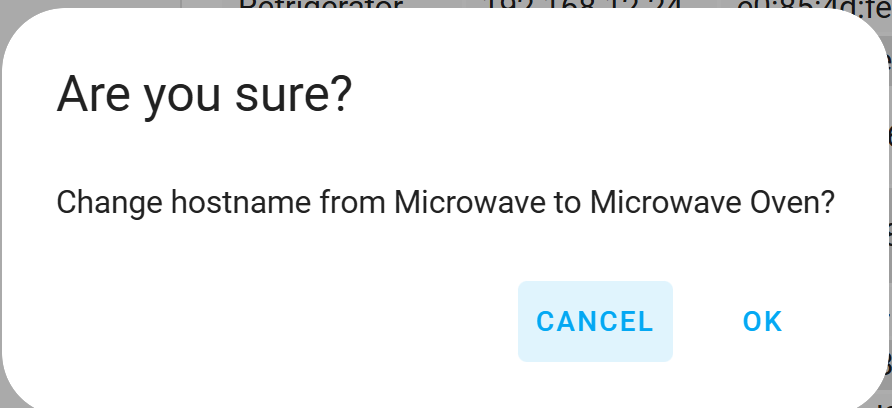
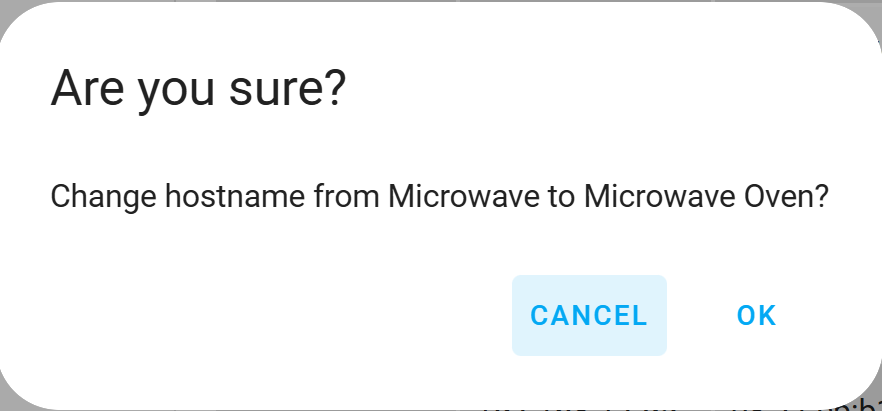
feat-support-select-and-edit

diff --git a/docs/example-cfg-calling-actions.md b/docs/example-cfg-calling-actions.md
@@ -242,6 +242,7 @@ user must be logged in to their account on `cellartracker.com` as no authenticat
 
 <img src="../images/WineConfirmation.png" alt="Wine inventory confirmation example" width="75%">
 
+
 ## Using Edit Actions
 
 ### Example: Editing a cell using `edit_action`
@@ -314,6 +315,6 @@ display before and after values:
         text: Change hostname from col[0] to cell[0]?
 ```
 
-<img src="../images/EditConfirmation.png" alt="Editing with confirmation example" width="100%">
+<img src="../images/EditConfirmation.png" alt="Editing with confirmation example" width="25%">
 
 [Return to main README.md](../README.md)
